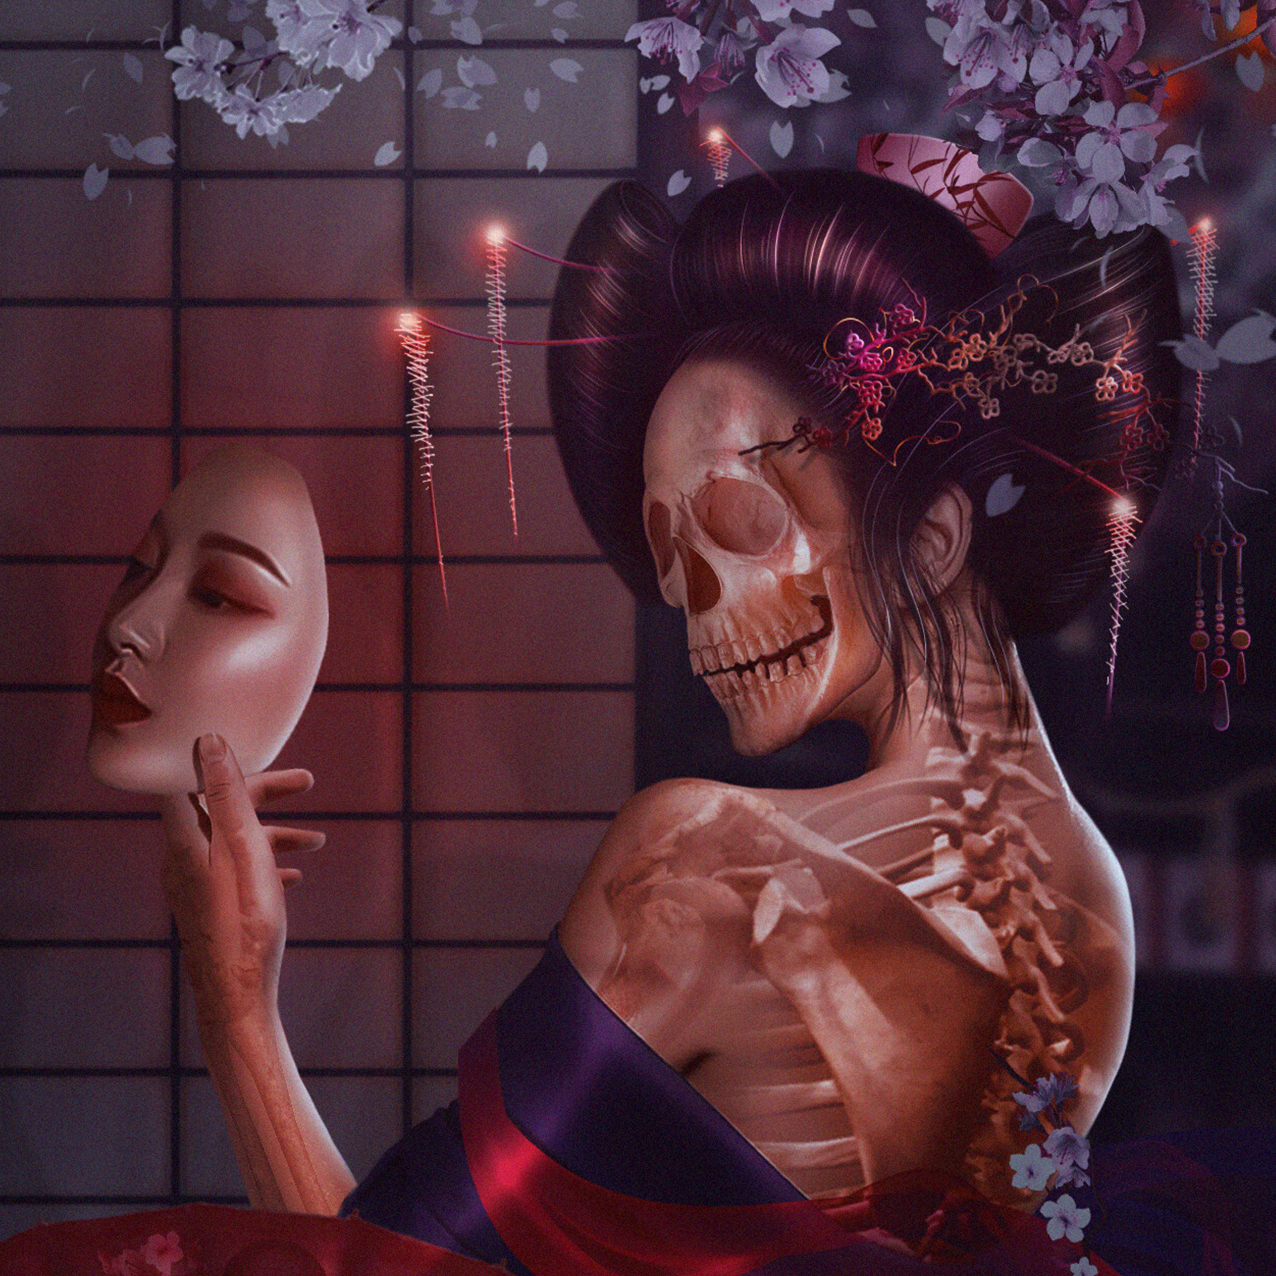
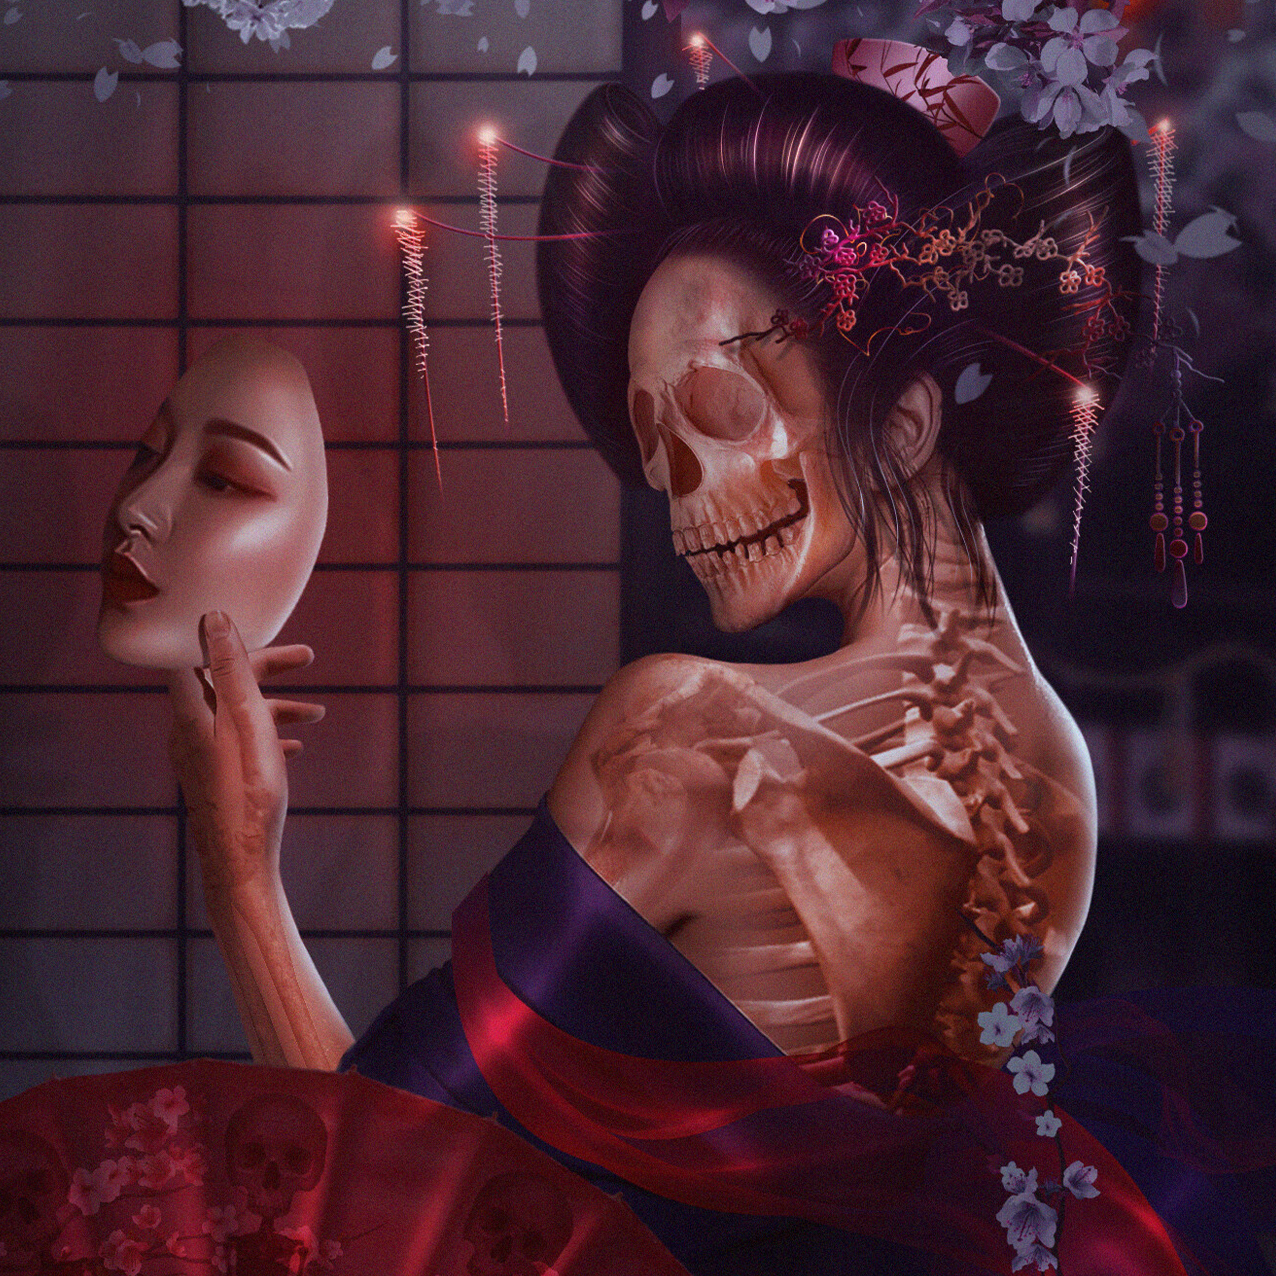
article image

diff --git a/src/views/Article.vue b/src/views/Article.vue
@@ -1,6 +1,7 @@
 <template>
   <div v-if="post" class="article">
       <h1 class="title">{{post.title}}</h1>
+      <img :src="require(`../assets/images/${post.img}.jpeg`)">
       <div class="content">
         <p v-for="(paragraph, index) in post.body" :key="index">{{paragraph}}</p>
       </div>
@@ -34,9 +35,17 @@ export default {
 }
 
   .article {
-    max-width: 800px;
+    max-width: 1000px;
     margin: 0 auto;
     min-height: 30vh;
+    margin-bottom: 60px;
+
+    img {
+      width: 100%;
+      height: 300px;
+      object-fit: none;
+      object-position: 50% 30%;
+    }
   }
 
   .title {
